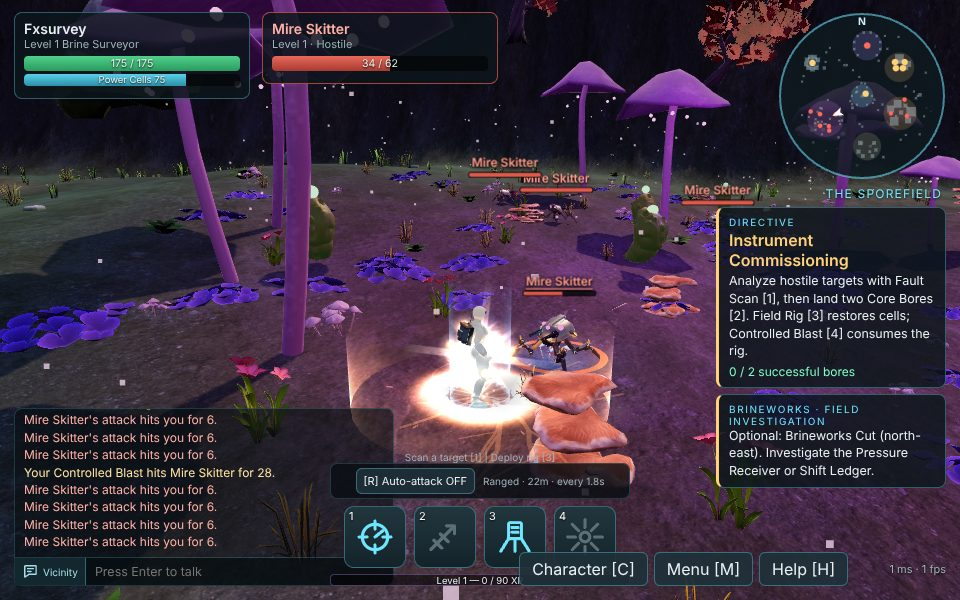
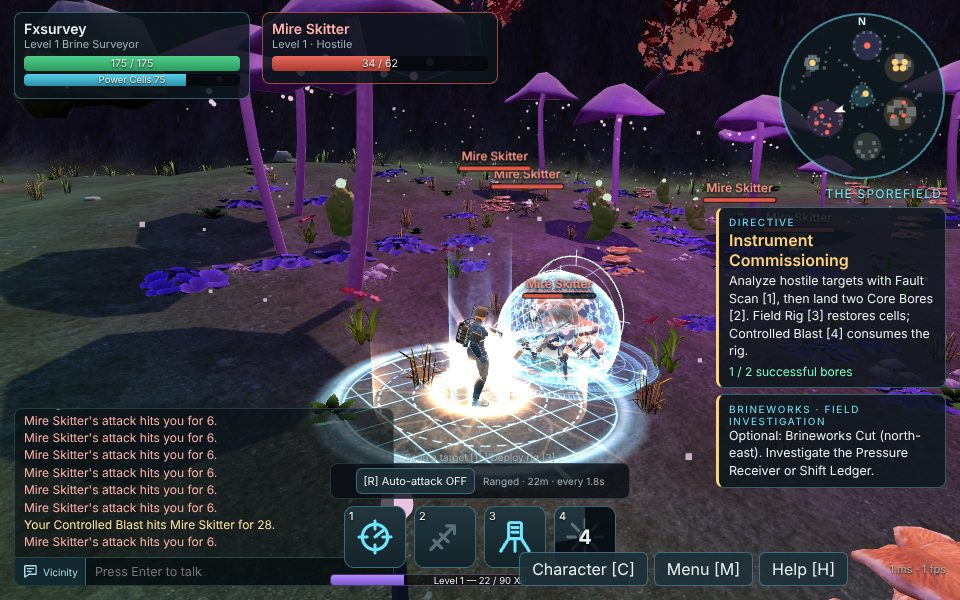
art(gadgets): rebuild the Surveyor field rig as a detailed deployable
The deployed rig now uses the shared gear kit: tripod, service deck,
caged glass power cell, ribbed cartridges, charge segments and emitter
dish. A persistent survey sigil (new bounded engine area API, max 16,
caller-owned, torn down at quality 0) marks its real recharge radius, and
short charge arcs reach the owner while they stand inside it
(presentation only). The original thin radius ring stays as the
functional indicator at every quality and the original blocks remain the
fallback. Module-level rig resources are flagged shared so per-rig
disposal never frees them. 129/129 Node tests on Node 24.

Claude-Session: https://claude.ai/code/session_01NeX63TePwQDYyKdAfCam3T

diff --git a/client/src/main.js b/client/src/main.js
@@ -7,8 +7,9 @@ import { CLASSES, ABILITIES, LOOKS, defaultLook } from '../../shared/content.js'
 import { BRINE_TRIAL } from '../../shared/survey.js';
 import { MOVE_DT, stepMove, groundHeight, zoneAt } from '../../shared/world.js';
 import { buildWorld, makeEnvironment } from './scene.js';
-import { Assets } from './assets.js';
-import { createModel, CHARACTER_BUNDLES } from './characters.js';
+import { Assets, disposeInstance, shared } from './assets.js';
+import { createModel, CHARACTER_BUNDLES, gearKit } from './characters.js';
+import { fieldRigDevice } from './gear-recipes.js';
 import { animationInterval } from './animator.js';
 import { Fx } from './fx.js';
 import { LiveAegis } from './live-aegis.js';
@@ -108,39 +109,81 @@ pressureZone.position.set(BRINE_TRIAL.exclusion.x,groundHeight(BRINE_TRIAL.exclu
 pressureZone.visible=false;scene.add(pressureZone);
 
 // Snapshot-driven stationary survey equipment, independent of its owner's model.
+// Module-level resources are reused by every rig: flagged shared so that
+// disposing one rig's instance never frees them.
 const rigParts = {
-  base: new THREE.CylinderGeometry(0.32, 0.40, 0.15, 8),
-  body: new THREE.BoxGeometry(0.32, 0.52, 0.29),
-  mast: new THREE.CylinderGeometry(0.025, 0.04, 0.55, 8),
-  lamp: new THREE.BoxGeometry(0.21, 0.05, 0.03),
-  area: new THREE.RingGeometry(0.985, 1, 48),
+  base: shared(new THREE.CylinderGeometry(0.32, 0.40, 0.15, 8)),
+  body: shared(new THREE.BoxGeometry(0.32, 0.52, 0.29)),
+  mast: shared(new THREE.CylinderGeometry(0.025, 0.04, 0.55, 8)),
+  lamp: shared(new THREE.BoxGeometry(0.21, 0.05, 0.03)),
+  area: shared(new THREE.RingGeometry(0.985, 1, 48)),
 };
-const rigMetal = new THREE.MeshStandardMaterial({ color: 0x77786e, roughness: 0.65, metalness: 0.45 });
-const rigDark = new THREE.MeshStandardMaterial({ color: 0x303b40, roughness: 0.8 });
-const rigLight = new THREE.MeshBasicMaterial({ color: 0x85cde9 });
-const rigArea = new THREE.MeshBasicMaterial({ color: 0x85cde9, transparent: true, opacity: 0.32, depthWrite: false, side: THREE.DoubleSide });
+const rigMetal = shared(new THREE.MeshStandardMaterial({ color: 0x77786e, roughness: 0.65, metalness: 0.45 }));
+const rigDark = shared(new THREE.MeshStandardMaterial({ color: 0x303b40, roughness: 0.8 }));
+const rigLight = shared(new THREE.MeshBasicMaterial({ color: 0x85cde9 }));
+const rigArea = shared(new THREE.MeshBasicMaterial({ color: 0x85cde9, transparent: true, opacity: 0.32, depthWrite: false, side: THREE.DoubleSide }));
+function dropRig(ent) {
+  if (ent.rigModel) {
+    scene.remove(ent.rigModel);
+    disposeInstance(ent.rigModel);
+  }
+  ent.rigModel = null;
+  ent.rigArea?.dispose();
+  ent.rigArea = null;
+}
 function syncRig(ent) {
   const r = ent.row?.rig;
   if (!r) {
-    if (ent.rigModel) scene.remove(ent.rigModel);
-    ent.rigModel = null;
+    dropRig(ent);
     return;
   }
   if (!ent.rigModel) {
     const g = new THREE.Group();
     const part = (geo, mat, x, y, z) => { const mesh = new THREE.Mesh(geo, mat); mesh.position.set(x,y,z); g.add(mesh); return mesh; };
-    part(rigParts.base, rigDark, 0, 0.075, 0);
-    part(rigParts.body, rigMetal, 0, 0.38, 0);
-    part(rigParts.mast, rigDark, 0.11, 0.88, 0);
-    part(rigParts.lamp, rigLight, 0, 0.55, 0.16);
+    // Detailed deployable from the shared gear kit; the original blocks remain the fallback.
+    try {
+      g.userData.update = gearKit().instantiate('field_rig', fieldRigDevice, { attach: (_bone, obj) => g.add(obj) });
+    } catch (err) {
+      console.warn('Field rig model unavailable; using basic model.', err);
+    }
+    if (!g.children.length) {
+      part(rigParts.base, rigDark, 0, 0.075, 0);
+      part(rigParts.body, rigMetal, 0, 0.38, 0);
+      part(rigParts.mast, rigDark, 0.11, 0.88, 0);
+      part(rigParts.lamp, rigLight, 0, 0.55, 0.16);
+    }
+    g.userData.arcAt = 0;
     const area = part(rigParts.area, rigArea, 0, 0.12, 0);
     area.rotation.x = -Math.PI / 2;
     g.userData.area = area;
     scene.add(g);
     ent.rigModel = g;
   }
-  ent.rigModel.position.set(r.x, groundHeight(r.x,r.z), r.z);
+  const gy = groundHeight(r.x, r.z);
+  ent.rigModel.position.set(r.x, gy, r.z);
   ent.rigModel.userData.area.scale.setScalar(r.r);
+  // The survey sigil marks the rig's real recharge radius (quality >= 1).
+  if (rich()) {
+    if (!ent.rigArea?.alive) ent.rigArea = vfx.area({ at: [r.x, gy, r.z], radius: r.r, style: 'survey', color: 0x5fd0ff, alpha: 0.45, spin: 0.2 });
+    else ent.rigArea.set([r.x, gy, r.z], r.r);
+  } else if (ent.rigArea) {
+    ent.rigArea.dispose();
+    ent.rigArea = null;
+  }
+}
+
+/** Per frame: animate deployed rigs and show recharge arcs to an owner in range. */
+function animateRig(ent, t) {
+  const g = ent.rigModel;
+  const r = ent.row?.rig;
+  if (!g || !r) return;
+  g.userData.update?.({ t, combat: true });
+  if (!rich() || !ent.placed || ent.dead || fxClock - g.userData.arcAt < 750) return;
+  if (Math.hypot(ent.pos.x - r.x, ent.pos.z - r.z) > r.r) return;
+  g.userData.arcAt = fxClock;
+  const top = [r.x, g.position.y + 1.36, r.z];
+  vfx.beam({ from: top, to: ent.chest, color: 0x6fd6ff, width: 0.05, life: 0.35, jitter: 0.18, grow: 0.4, taper: 1 });
+  vfx.burst({ at: ent.chest, count: 4, cell: 13, color: 0xd8f6ff, color2: 0x6fd6ff, size: 0.08, life: 0.35, speed: [0.3, 1], drag: 2 });
 }
 
 function resize() {
@@ -542,7 +585,7 @@ function removeEntity(ent) {
   fx.clearRoot(ent.id);
   liveAegis.remove(ent.id);
   scene.remove(ent.holder);
-  if (ent.rigModel) scene.remove(ent.rigModel);
+  dropRig(ent);
   if (ent.model.dispose) ent.model.dispose();
   else {
     ent.holder.traverse((o) => {
@@ -1264,6 +1307,7 @@ function updateEntities(dt, t, now) {
     ent.holder.visible = ent.inView;
     if (ent.meta.k === 'e') fx.setRooted(ent.id, x, z, ent.model.radius, ent.inView && !ent.dead && !!row?.b?.includes('root'));
     liveAegis.sync(ent, motionPreference.matches || quality === 0, t);
+    if (ent.rigModel) animateRig(ent, t);
     ent.model.update(dt, {
       t,
       speed: ent.speed,

diff --git a/client/src/vfx/engine.js b/client/src/vfx/engine.js
@@ -13,6 +13,7 @@ import { CELL } from './textures.js';
 
 export const MAX_ITEMS = 40;
 export const CAPACITY = { add: 1800, alpha: 420 };
+export const MAX_AREAS = 16;
 const STRIDE = 30;
 const TAU = Math.PI * 2;
 
@@ -630,6 +631,60 @@ export function createVfx(THREE, scene, options = {}) {
     });
   }
 
+  /**
+   * A persistent ground sigil the caller owns (e.g. a deployed device's real
+   * radius). Returns { set(at, radius), dispose() } or null. At most
+   * MAX_AREAS exist; the caller must dispose it when the device goes away.
+   */
+  const areas = new Set();
+  function area(o) {
+    if (disposed || quality <= 0 || areas.size >= MAX_AREAS) return null;
+    const c = point(o.at);
+    if (!c || !finitePos(o.radius, 60)) return null;
+    const u = { sigil: { value: T.sigil(o.style || 'survey') }, color: { value: col(o.color ?? 0xffffff) }, alpha: { value: o.alpha ?? 0.6 }, spinA: { value: 0 }, spinB: { value: 0 }, prog: { value: 1.06 }, hot: { value: 0 } };
+    let mesh = null;
+    let key = '';
+    const a = {
+      t: 0,
+      get alive() {
+        return areas.has(a) && !disposed;
+      },
+      set(at, radius) {
+        if (!areas.has(a)) return;
+        const p = point(at);
+        if (!p || !finitePos(radius, 60)) return;
+        const k = `${p.map((v) => v.toFixed(2)).join(',')}|${radius.toFixed(2)}`;
+        if (k === key) return;
+        key = k;
+        if (mesh) {
+          root.remove(mesh);
+          mesh.geometry.dispose();
+        }
+        mesh = decalMesh(p, radius, mat, o.lift ?? 0.06);
+        mesh.frustumCulled = false;
+        mesh.renderOrder = 3;
+        root.add(mesh);
+      },
+      dispose() {
+        if (!areas.delete(a)) return;
+        if (mesh) {
+          root.remove(mesh);
+          mesh.geometry.dispose();
+        }
+        mat.dispose();
+      },
+      tick(dt) {
+        a.t += dt;
+        u.spinA.value = reduced ? 0 : a.t * (o.spin ?? 0.25);
+        u.spinB.value = reduced ? 0 : -a.t * (o.spin ?? 0.25) * 1.6;
+      },
+    };
+    const mat = material(DECAL_VS, SIGIL_FS, u);
+    areas.add(a);
+    a.set(c, o.radius);
+    return a;
+  }
+
   // Flash lights ------------------------------------------------------------------
   const lights = [];
   if ((options.lights ?? true) && quality >= 2) {
@@ -688,6 +743,7 @@ export function createVfx(THREE, scene, options = {}) {
         items.splice(i--, 1);
       }
     }
+    for (const a of areas) a.tick(dt);
     stepPool(pools.add, dt);
     stepPool(pools.alpha, dt);
   }
@@ -704,12 +760,16 @@ export function createVfx(THREE, scene, options = {}) {
   function setQuality(q) {
     quality = q;
     if (q < 2) for (const s of lights) s.l.intensity = 0;
-    if (q <= 0) clear();
+    if (q <= 0) {
+      clear();
+      for (const a of [...areas]) a.dispose();
+    }
   }
 
   function dispose() {
     if (disposed) return;
     clear();
+    for (const a of [...areas]) a.dispose();
     disposed = true;
     for (const p of Object.values(pools)) {
       p.geo.dispose();
@@ -723,13 +783,13 @@ export function createVfx(THREE, scene, options = {}) {
   }
 
   return {
-    root, burst, sigil, shock, scorch, telegraph, beam, arc, shell, flash, emitter, update, clear, dispose, setQuality,
+    root, burst, sigil, area, shock, scorch, telegraph, beam, arc, shell, flash, emitter, update, clear, dispose, setQuality,
     rand,
     get quality() { return quality; },
     get reducedMotion() { return reduced; },
     set reducedMotion(v) { reduced = !!v; },
     stats() {
-      return { ...stats, items: items.length, particles: pools.add.live + pools.alpha.live, lights: lights.length };
+      return { ...stats, areas: areas.size, items: items.length, particles: pools.add.live + pools.alpha.live, lights: lights.length };
     },
   };
 }

diff --git a/client/src/gear-recipes.js b/client/src/gear-recipes.js
@@ -193,3 +193,37 @@ export const SIGNATURE_GEAR = {
   aegis_keeper: keeperResonance,
   brine_surveyor: surveyorField,
 };
+
+// --- Brine Surveyor deployable: Field Rig (world object, not worn) ----------------
+// Built around its own origin on the ground; the 'root' bone means "the rig group".
+
+export function fieldRigDevice(b) {
+  const { prim, M } = b;
+  const ochre = M.paint('survey-ochre', { base: '#9b713d', metal: '#bdb6a6', hazard: true, stencil: 'BS-3', seed: 41 });
+  const olive = M.paint('survey-olive', { base: '#59604f', metal: '#b7b9ae', seed: 42 });
+  const cyan = M.lamp(0x6fd6ff);
+  const R = 'root';
+  // tripod with feet
+  for (let i = 0; i < 3; i++) {
+    const a = (i / 3) * Math.PI * 2 + 0.3;
+    const fx = Math.sin(a) * 0.48;
+    const fz = Math.cos(a) * 0.48;
+    b.add(R, prim.cyl(0.02, 0.62, 8), M.darkSteel(), [fx * 0.55, 0.3, fz * 0.55], [Math.cos(a) * 0.6, 0, -Math.sin(a) * 0.6]);
+    b.add(R, prim.block(0.1, 0.03, 0.1, 0.01), M.rubber(), [fx, 0.015, fz]);
+  }
+  // service deck and the central power column
+  b.add(R, prim.lathe([[0, 0], [0.3, 0], [0.32, 0.03], [0.3, 0.07], [0.12, 0.09], [0, 0.09]], 20), olive, [0, 0.52, 0]);
+  reservoir(b, R, [0, 0.82, 0], { r: 0.06, h: 0.42, cap: M.darkSteel(), fluid: 0x6fd6ff, kind: 4, cage: true, fill: 0.95, fillMin: 0.3 });
+  for (const s of [-1, 1]) {
+    b.add(R, prim.lathe([[0, 0], [0.05, 0], [0.056, 0.015], [0.056, 0.36], [0.05, 0.375], [0.02, 0.39], [0, 0.39]], 16), ochre, [s * 0.17, 0.6, 0.02]);
+    for (let i = 0; i < 4; i++) b.add(R, prim.cyl(0.06, 0.016, 16), M.rubber(), [s * 0.17, 0.66 + i * 0.075, 0.02]);
+  }
+  b.segments(R, 5, 0.03, 0.03, 0.012, [0, 0.62, 0.2], [0, 0, 0], 0x6fd6ff);
+  b.add(R, prim.block(0.1, 0.2, 0.03, 0.008), olive, [0, 0.7, 0.19]);
+  // emitter head: dish, coil and antenna
+  b.add(R, prim.cyl(0.02, 0.22, 8), M.steel(), [0, 1.17, 0]);
+  b.add(R, prim.lathe([[0, 0], [0.16, 0.04], [0.18, 0.07], [0.16, 0.06], [0, 0.02]], 24), M.steel(), [0, 1.27, 0]);
+  b.add(R, prim.torus(0.07, 0.012, 18), M.brass(), [0, 1.33, 0], [Math.PI / 2, 0, 0]);
+  b.add(R, prim.block(0.05, 0.05, 0.05, 0.01), cyan, [0, 1.36, 0]);
+  b.add(R, prim.cyl(0.006, 0.42, 6), M.steel(), [0.12, 1.45, -0.05], [0, 0, -0.12]);
+}

diff --git a/test/vfx-engine.test.js b/test/vfx-engine.test.js
@@ -167,3 +167,28 @@ test('combat vfx: every ability, area event and common event plays and fully exp
   assert.equal(v.stats().items, 0);
   assert.equal(v.stats().particles, 0);
 });
+
+test('vfx: persistent areas are capped, re-placed, torn down at quality 0 and safe after dispose', async () => {
+  const { MAX_AREAS } = await import('../client/src/vfx/engine.js');
+  const { v } = make();
+  const handles = [];
+  for (let i = 0; i < MAX_AREAS + 5; i++) handles.push(v.area({ at: [i, ground(i, 0), 0], radius: 4 }));
+  assert.equal(handles.filter(Boolean).length, MAX_AREAS);
+  assert.equal(v.stats().areas, MAX_AREAS);
+  const a = handles[0];
+  const before = a ? v.root.children.length : 0;
+  a.set([5, ground(5, 5), 5], 4);
+  a.set([5, ground(5, 5), 5], 4); // unchanged: no rebuild
+  a.set([NaN, 0, 0], 4); // invalid: ignored
+  assert.equal(v.root.children.length, before);
+  run(v, 1);
+  a.dispose();
+  a.dispose();
+  assert.equal(a.alive, false);
+  a.set([1, 1, 1], 2); // after dispose: ignored, nothing re-added
+  assert.equal(v.stats().areas, MAX_AREAS - 1);
+  v.setQuality(0);
+  assert.equal(v.stats().areas, 0);
+  assert.ok(handles.every((h) => !h || !h.alive));
+  assert.equal(v.area({ at: [0, 0, 0], radius: 2 }), null);
+});

diff --git a/test/gear-kit.test.js b/test/gear-kit.test.js
@@ -66,3 +66,20 @@ test('gear: wearers share static geometry and materials; animated parts are per 
   kit.dispose();
   assert.equal(kit.looks, 0);
 });
+
+test('gear: deployable field rig stands on its own origin within budget', async () => {
+  const { fieldRigDevice } = await import('../client/src/gear-recipes.js');
+  const kit = createGearKit(THREE, { shared });
+  const built = kit.build('field_rig', fieldRigDevice);
+  let triangles = 0;
+  for (const part of [...built.statics, ...built.dynamic]) {
+    assert.equal(part.bone, 'root');
+    const p = part.geometry.getAttribute('position');
+    for (let i = 0; i < p.count; i++) {
+      assert.ok(Math.abs(p.getX(i)) < 0.7 && Math.abs(p.getZ(i)) < 0.7 && p.getY(i) > -0.05 && p.getY(i) < 1.8, 'rig vertex out of bounds');
+    }
+    triangles += tris(part.geometry);
+  }
+  assert.ok(triangles < 6000, `${triangles}`);
+  assert.ok(built.statics.length + built.dynamic.length <= 12);
+});

diff --git a/client/src/characters.js b/client/src/characters.js
@@ -49,7 +49,7 @@ function throttle(state, dt, interval) {
 // --- humanoids ---------------------------------------------------------------
 
 let kit = null;
-const gearKit = () => (kit ??= createGearKit(THREE, { shared }));
+export const gearKit = () => (kit ??= createGearKit(THREE, { shared }));
 
 export function makeHumanoid(assets, lookId, opts = {}) {
   const def = LOOK_DEFS[lookId];
